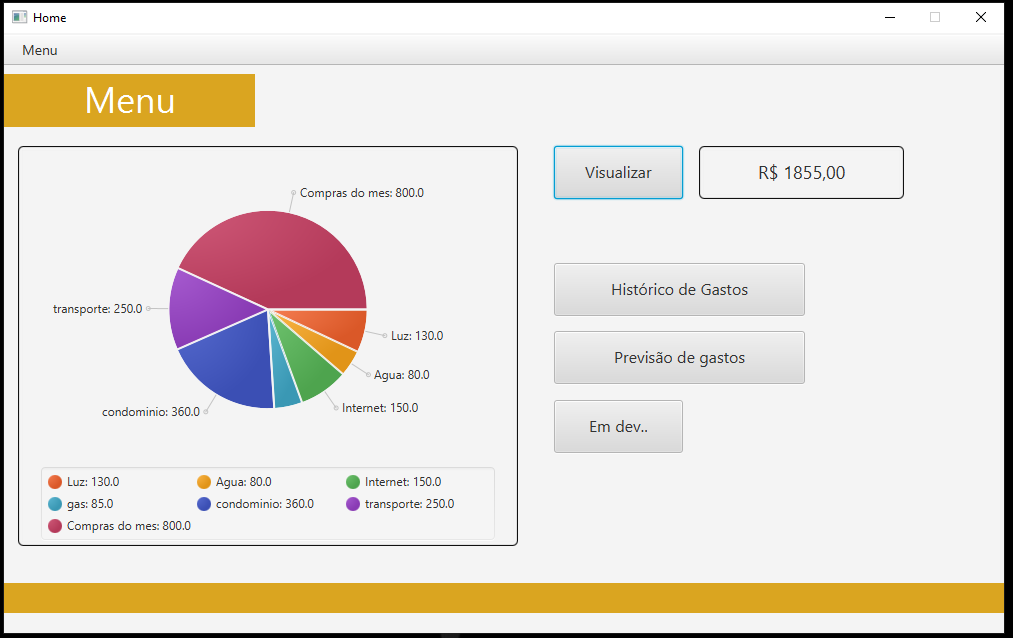
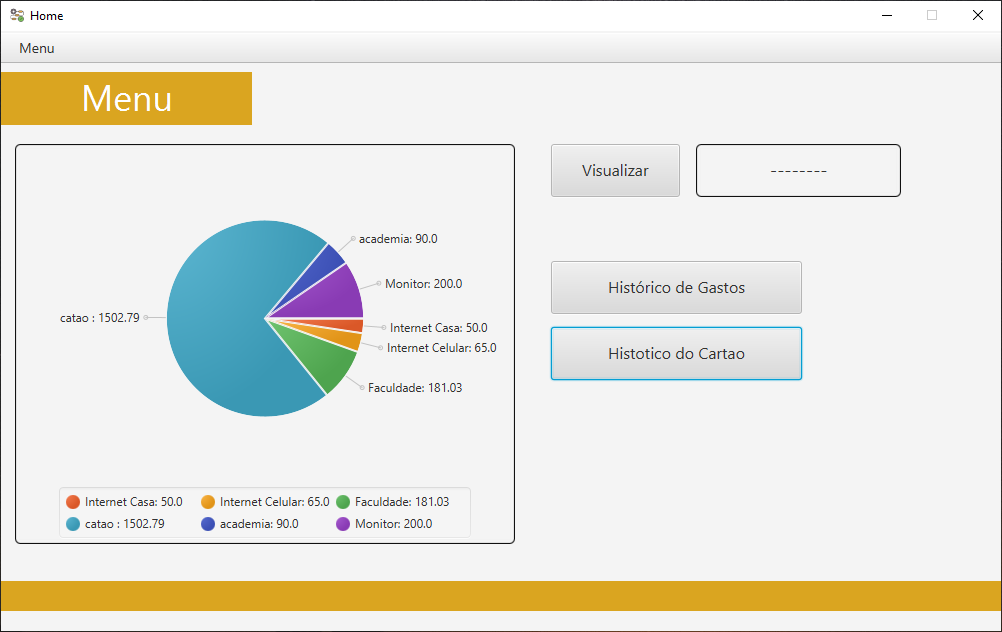
final commit

diff --git a/src/view/GraphicsViewController.java b/src/view/GraphicsViewController.java
@@ -46,10 +46,6 @@ public class GraphicsViewController implements Initializable {
         showWindow("/view/CreditCardView.fxml","Historico do Cartão");
     }
     
-    public void onBtShowSpendingForecast() {
-        
-    }
-    
     @Override
     public void initialize(URL url, ResourceBundle rb) {
         
@@ -57,10 +53,9 @@ public class GraphicsViewController implements Initializable {
 
     private boolean showValue = false;
     
-    @FXML
-    private void totalValueShow() {
+    public void totalValueShow() {
         if (showValue) {
-            labelValue.setText("");
+            labelValue.setText("--------");
             showValue = false;
         } else {
             labelValue.setText("R$ "+String.format("%.2f", sum));
@@ -99,7 +94,7 @@ public class GraphicsViewController implements Initializable {
             Stage dialogStage = new Stage();
             dialogStage.setTitle(title);
             dialogStage.setScene(new Scene(anchorPane));
-            dialogStage.getIcons().add(new Image(getClass().getResourceAsStream("/imgs/icons/controlpanel.png")));
+            dialogStage.getIcons().add(new Image(getClass().getResourceAsStream("/imgs/icons/processDevelopment.png")));
             dialogStage.setResizable(false);
             dialogStage.initModality(Modality.WINDOW_MODAL);
             dialogStage.showAndWait();

diff --git a/src/application/Main.java b/src/application/Main.java
@@ -20,7 +20,7 @@ public class Main extends Application {
     
             mainScene = new Scene(anchorPane);
             primaryStage.setScene(mainScene);
-            primaryStage.getIcons().add(new Image(getClass().getResourceAsStream("/imgs/icons/controlpanel.png")));
+            primaryStage.getIcons().add(new Image(getClass().getResourceAsStream("/imgs/icons/processDevelopment.png")));
             primaryStage.setResizable(false);
             primaryStage.setTitle("Home");
             primaryStage.show();

diff --git a/src/view/HomeViewController.java b/src/view/HomeViewController.java
@@ -54,7 +54,6 @@ public class HomeViewController implements Initializable {
             T conttroler = loader.getController();
             initializingAction.accept(conttroler);
         } catch (IOException e) { 
-            e.printStackTrace();
             System.out.println(e.getMessage());
         }
     }
